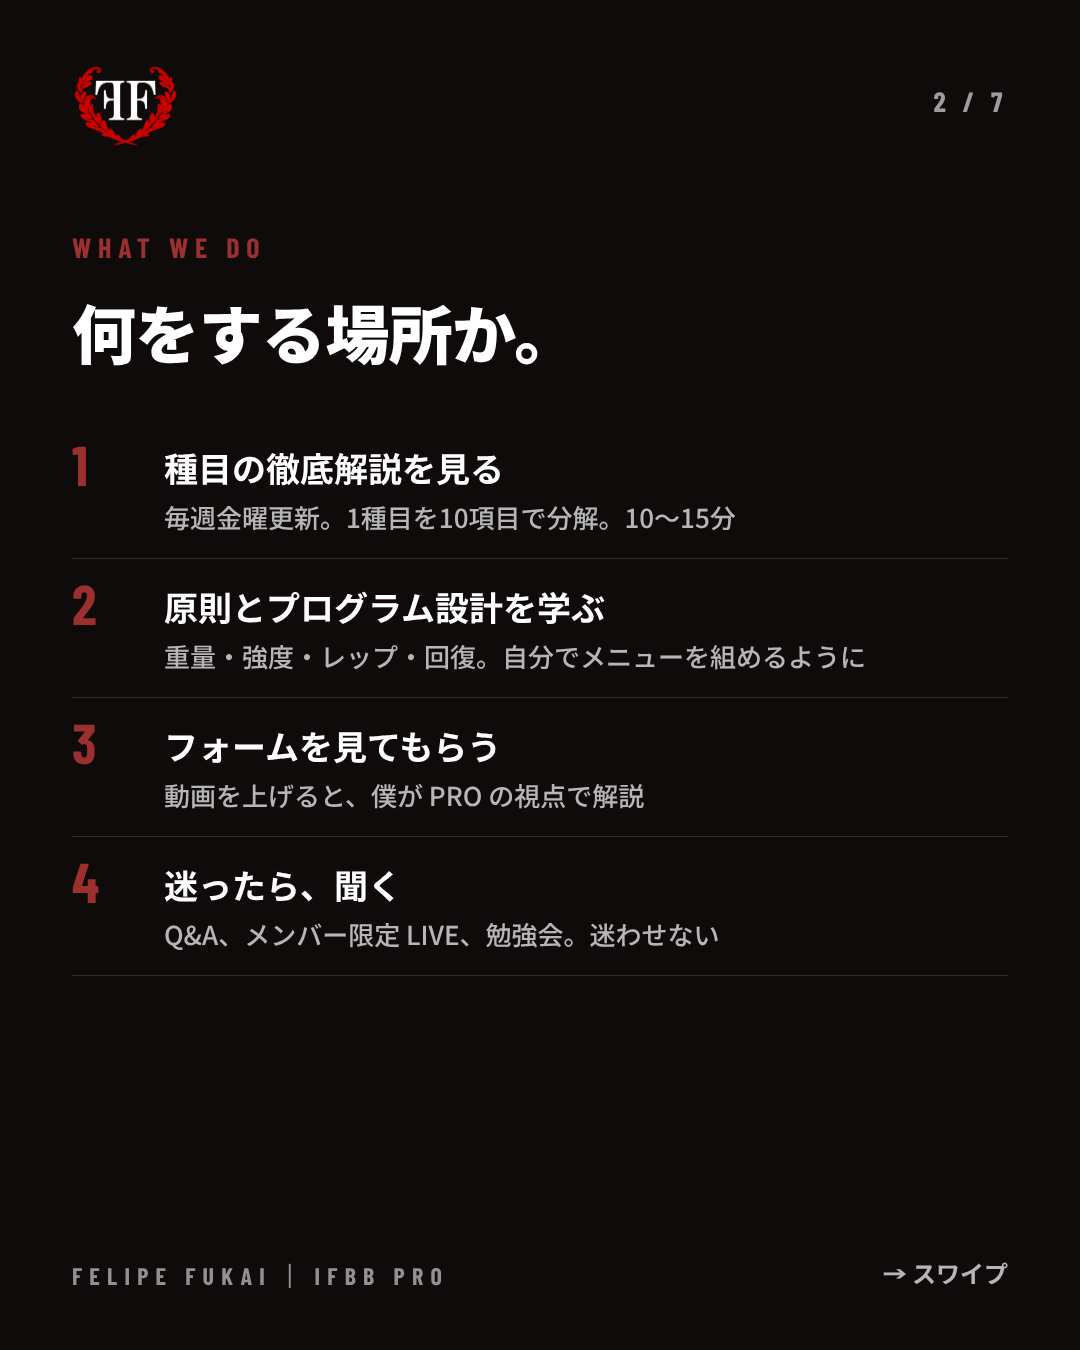
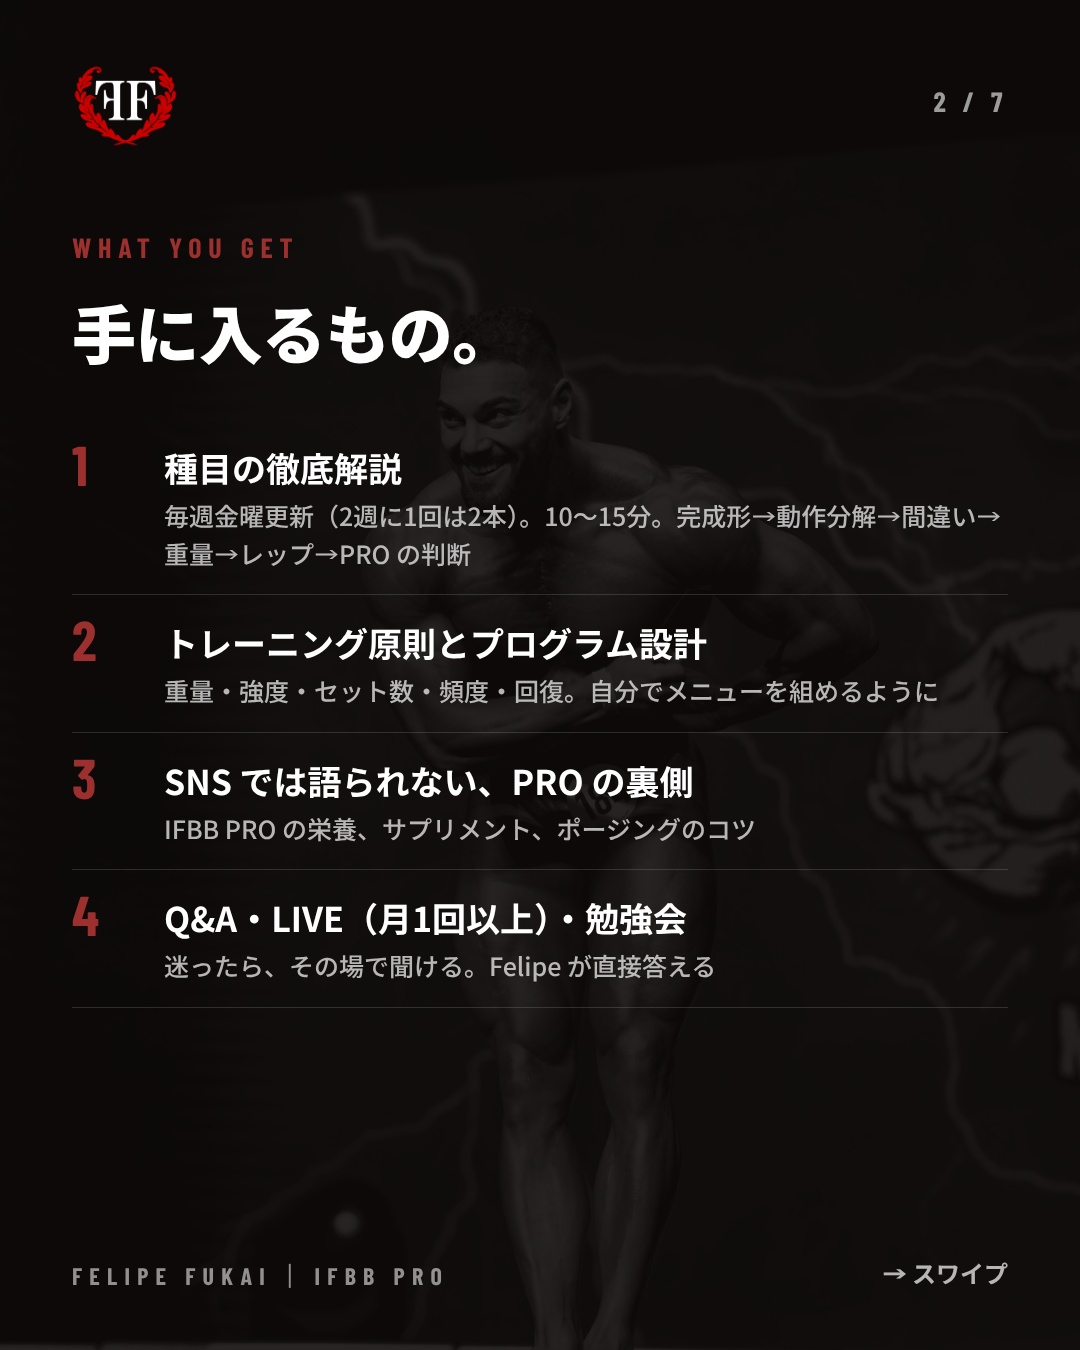
What-is-UNIÃO carousel: text-first, aligned to final LP (#94)
* Add UPPER DAY YouTube thumbnails (part 1, 2) and the series thumbnail template

Claude-Session: https://claude.ai/code/session_01HRty6kL8VRnpLHHHzSF3iS

* UPPER DAY thumbnails: reframe to keep the face visible and hide the burned-in caption

Claude-Session: https://claude.ai/code/session_01HRty6kL8VRnpLHHHzSF3iS

* UPPER DAY thumbnails v2: loud yellow/red creator style, distinct from the community look

Claude-Session: https://claude.ai/code/session_01HRty6kL8VRnpLHHHzSF3iS

* UPPER DAY thumbnails v3: competition roar photo plus gym face chip

Claude-Session: https://claude.ai/code/session_01HRty6kL8VRnpLHHHzSF3iS

* UPPER DAY thumbnails: soften hook to Felipe's voice

Claude-Session: https://claude.ai/code/session_01HRty6kL8VRnpLHHHzSF3iS

* UPPER DAY thumbnails: keep the hook line on one row

Claude-Session: https://claude.ai/code/session_01HRty6kL8VRnpLHHHzSF3iS

* UPPER DAY thumbnails: hook label on one line

Claude-Session: https://claude.ai/code/session_01HRty6kL8VRnpLHHHzSF3iS

* UPPER DAY thumbnails on the brand guide: FF black base, white type, laurel red as the single accent, gym press photo; add visual identity PDF

Claude-Session: https://claude.ai/code/session_01HRty6kL8VRnpLHHHzSF3iS

* UPPER DAY thumbnail: three promise-led headline variants on the brand template

Claude-Session: https://claude.ai/code/session_01HRty6kL8VRnpLHHHzSF3iS

* Add post-live story images (thanks + next live 11/23) and story template
[…]

diff --git a/assets/carousel/what-is-uniao/template.html b/assets/carousel/what-is-uniao/template.html
@@ -32,10 +32,11 @@ ul{list-style:none}
 .big b{font-size:230px;font-weight:700;color:#fff}
 .big span{display:block;font-size:40px;letter-spacing:.2em;color:#9C302E;margin-top:8px}
 
+.bgf{position:absolute;inset:0;background:url(pose.jpg) 50% 15%/cover no-repeat;filter:grayscale(1) contrast(1.1);opacity:.1}
 .tbl{position:absolute;left:72px;width:936px;border:2px solid rgba(255,255,255,.18)}
 .tbl .r{display:grid;grid-template-columns:1fr 1fr;border-top:2px solid rgba(255,255,255,.18)}
 .tbl .r:first-child{border-top:0}
-.tbl .r div{padding:20px 22px;font-size:28px;line-height:1.45;font-weight:700}
+.tbl .r div{padding:18px 22px;font-size:27px;line-height:1.45;font-weight:700}
 .tbl .r div:first-child{color:rgba(255,255,255,.55);font-weight:500;border-right:2px solid rgba(255,255,255,.18)}
 .tbl .r.hd div{font-family:"BC",sans-serif;font-size:26px;letter-spacing:.2em;text-align:center;color:rgba(255,255,255,.6)}
 .tbl .r.hd div:last-child{background:#D4A94F;color:#0E0B0A}
@@ -43,9 +44,14 @@ ul{list-style:none}
 .tbl .r div:last-child b{color:#D4A94F}
 .cta{position:absolute;left:72px;right:72px;background:#9C302E;color:#fff;font-size:38px;font-weight:900;text-align:center;padding:28px;border-radius:10px}
 .cta small{display:block;font-size:24px;font-weight:700;opacity:.9;margin-top:6px}
-</style></head><body><div class="bg" style="background-image:url(stage.jpg);background-position:42% 0%;background-size:auto 112%;top:520px"></div>
-<div class="fade" style="background:linear-gradient(180deg,#0E0B0A 0%,#0E0B0A 32%,rgba(14,11,10,.9) 42%,rgba(14,11,10,.2) 62%,rgba(14,11,10,.05) 82%,rgba(14,11,10,.85) 100%)"></div>
-<img class="logo" src="logo.png"><p class="pg">UNIÃO ｜ 11.27 OPEN</p>
-<p class="kick" style="top:230px">WHAT IS UNIÃO</p>
-<p class="h" style="top:280px;font-size:76px">UNIÃO って、<br>何をする場所？</p>
-<p class="p" style="top:520px">11月27日に開く、僕のコミュニティ。<br>何をする場所で、何が手に入って、<br>誰のためのものか。<b>7枚で説明します。</b></p><p class="foot">FELIPE FUKAI ｜ IFBB PRO</p><p class="swipe">→ スワイプ</p></body></html>
+.kpi{position:absolute;left:72px;width:936px;display:grid;grid-template-columns:1fr 1fr;gap:16px}
+.kpi div{background:rgba(255,255,255,.06);border:1px solid rgba(255,255,255,.14);padding:22px 20px 18px;text-align:center}
+.kpi b{display:block;font-family:"BC",sans-serif;font-size:76px;line-height:1;color:#D4A94F}
+.kpi b small{font-family:"NS",sans-serif;font-size:26px;color:#fff;margin-left:4px}
+.kpi span{display:block;font-size:24px;color:rgba(255,255,255,.8);margin-top:8px;line-height:1.4}
+.li li small{font-size:25px}
+</style></head><body><div class="bgf"></div><img class="logo" src="logo.png"><p class="pg">UNIÃO ｜ 11.27 OPEN</p>
+<p class="kick" style="top:300px">WHAT IS UNIÃO</p>
+<p class="h" style="top:350px;font-size:84px;line-height:1.25">UNIÃO って、<br>何をする場所？</p>
+<p class="p" style="top:620px">11月27日に開く、僕のコミュニティ。<br>何をする場所で、何が手に入って、<br>誰のためのものか。<b>7枚で説明します。</b></p>
+<p class="p" style="top:900px;font-size:30px;color:#D4A94F;font-weight:700">筋肉のデカさには、理由がある。<br>感覚でデカくなる時代は、もう終わり。</p><p class="foot">FELIPE FUKAI ｜ IFBB PRO</p><p class="swipe">→ スワイプ</p></body></html>
